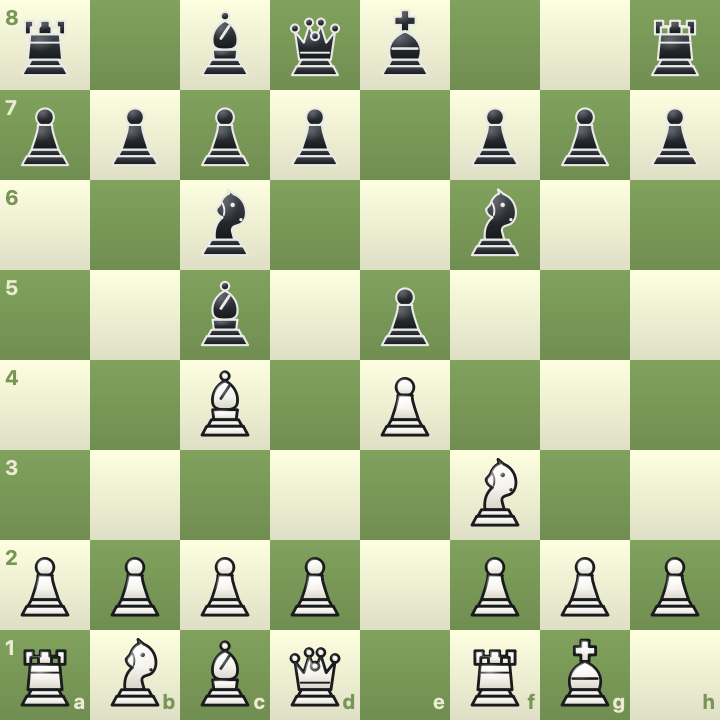
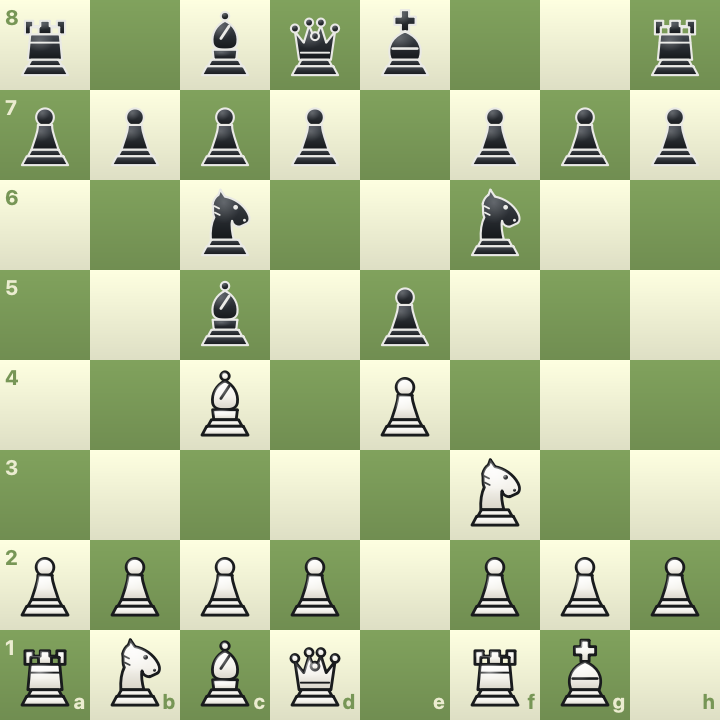
Redraw the knight so it reads as a horse
The previous attempts read as a cat, then as a hound. Three changes, each
arrived at by rendering at three hundred pixels a square and looking, because
that is the only way this kind of thing can be judged:

  The jaw now cuts back and up from the muzzle before the throat falls away,
  leaving a concave notch under the head. Without that notch the head merges
  into the neck and the piece has no chin -- this was the single biggest
  reason it did not read as a horse.

  The mane is a wave down the back of the neck rather than a spike. Two points
  at the top -- a crest and an ear -- read as a pair of cat ears however they
  are shaped, which is what the first redraw got wrong.

  The head slopes forward and the ear is small and set back, so the muzzle
  ends low and well forward instead of sitting upright on the neck.

The reasoning is recorded above the shape in the generator, so the next person
to touch it knows which parts are load-bearing and which are taste.

diff --git a/packaging/generate-pieces.py b/packaging/generate-pieces.py
@@ -50,28 +50,47 @@ BODIES: dict[str, str] = {
         '<path d="M 19.5 23 L 17.5 44.5 L 46.5 44.5 L 44.5 23 Z"/>'
         '<path d="M 19 30 L 45 30" stroke-width="1.6" fill="none"/>'
     ),
-    # A horse in profile facing right: chest, neck, mane, ear, brow, muzzle,
-    # jaw. The muzzle has to project forward and the jaw cut back under it, or
-    # the head reads as a bird.
+    # A horse in profile facing right.
+    #
+    # Three things make it read as a horse rather than a cat, and all three
+    # were arrived at by rendering and looking:
+    #
+    #   The jaw cuts back and UP from the muzzle before the throat drops away,
+    #   leaving a concave notch under the head. Without that notch the head
+    #   merges into the neck and the piece looks like an animal with no chin.
+    #
+    #   The mane is a wavy ridge down the back of the neck, not a spike. Two
+    #   spikes at the top -- a crest and an ear -- read as a pair of cat ears
+    #   however they are shaped.
+    #
+    #   The head slopes forward, so the muzzle ends low and well forward
+    #   rather than sitting upright on the neck.
     "knight": (
-        '<path d="M 23.5 44.5 '
-        "C 22.5 36.5 24.5 30 30 25.5 "
-        "C 26.5 24.5 24.5 21.5 24.5 18.5 "
-        "L 28 14.5 "
-        "C 29 10.5 32 6.5 35.5 5.5 "
-        "L 34.5 1.8 L 39.5 6 "
-        "C 44.5 7.8 48.5 12.5 49.5 18.5 "
-        "C 50.5 24.5 48.5 29.5 44.5 31.5 "
-        "L 40 33 "
-        "C 38 34 37.5 35.5 38 37.5 "
-        "C 38.5 40.5 39.5 42.5 40 44.5 "
+        '<path d="M 20 44.5 '
+        # Back of the neck, rising.
+        "C 19.5 37 20.5 30 23 25.5 "
+        # The mane, as a wave rather than a point.
+        "C 21 22 22.5 18 21.5 14 "
+        "C 22.5 10.5 24 8 26.5 6.5 "
+        # One ear, small and set back. A tall central spike reads as a horn.
+        "L 28 2 L 32 8 "
+        # Forehead sloping down and forward to the brow.
+        "C 40 9.5 47.5 14.5 51.5 22 "
+        # Bridge of the nose, down to the blunt front of the muzzle.
+        "C 53.5 26 53 29 51 30.5 "
+        "L 44.5 33.5 "
+        # Jaw cutting back and up to the cheek: the notch. The cheek sits low
+        # and full, which is what gives the head its weight.
+        "C 41 33.5 38.5 31.5 38 28.5 "
+        # Throat falling away from the cheek down to the chest.
+        "C 37 32 38 39 39.5 44.5 "
         'Z"/>'
-        # Mane, eye and nostril in the outline colour so they read on either
-        # piece without a second gradient.
-        '<path d="M 29.5 13 C 31.5 16.5 32 20 31 23.5" '
-        'stroke="{accent}" stroke-width="1.6" fill="none"/>'
-        '<circle cx="38.5" cy="15" r="1.9" fill="{accent}" stroke="none"/>'
-        '<circle cx="45.5" cy="27.5" r="1.4" fill="{accent}" stroke="none"/>'
+        # Mane grooves, eye and nostril in the outline colour, so they read on
+        # either piece without needing a second gradient.
+        '<path d="M 23 16 L 27 18 M 23.5 21.5 L 27.5 23.5" '
+        'stroke="{accent}" stroke-width="1.5" fill="none"/>'
+        '<circle cx="41" cy="17" r="2" fill="{accent}" stroke="none"/>'
+        '<circle cx="48.5" cy="28" r="1.3" fill="{accent}" stroke="none"/>'
     ),
     # A mitre with the diagonal cut that tells a bishop from anything else.
     "bishop": (
